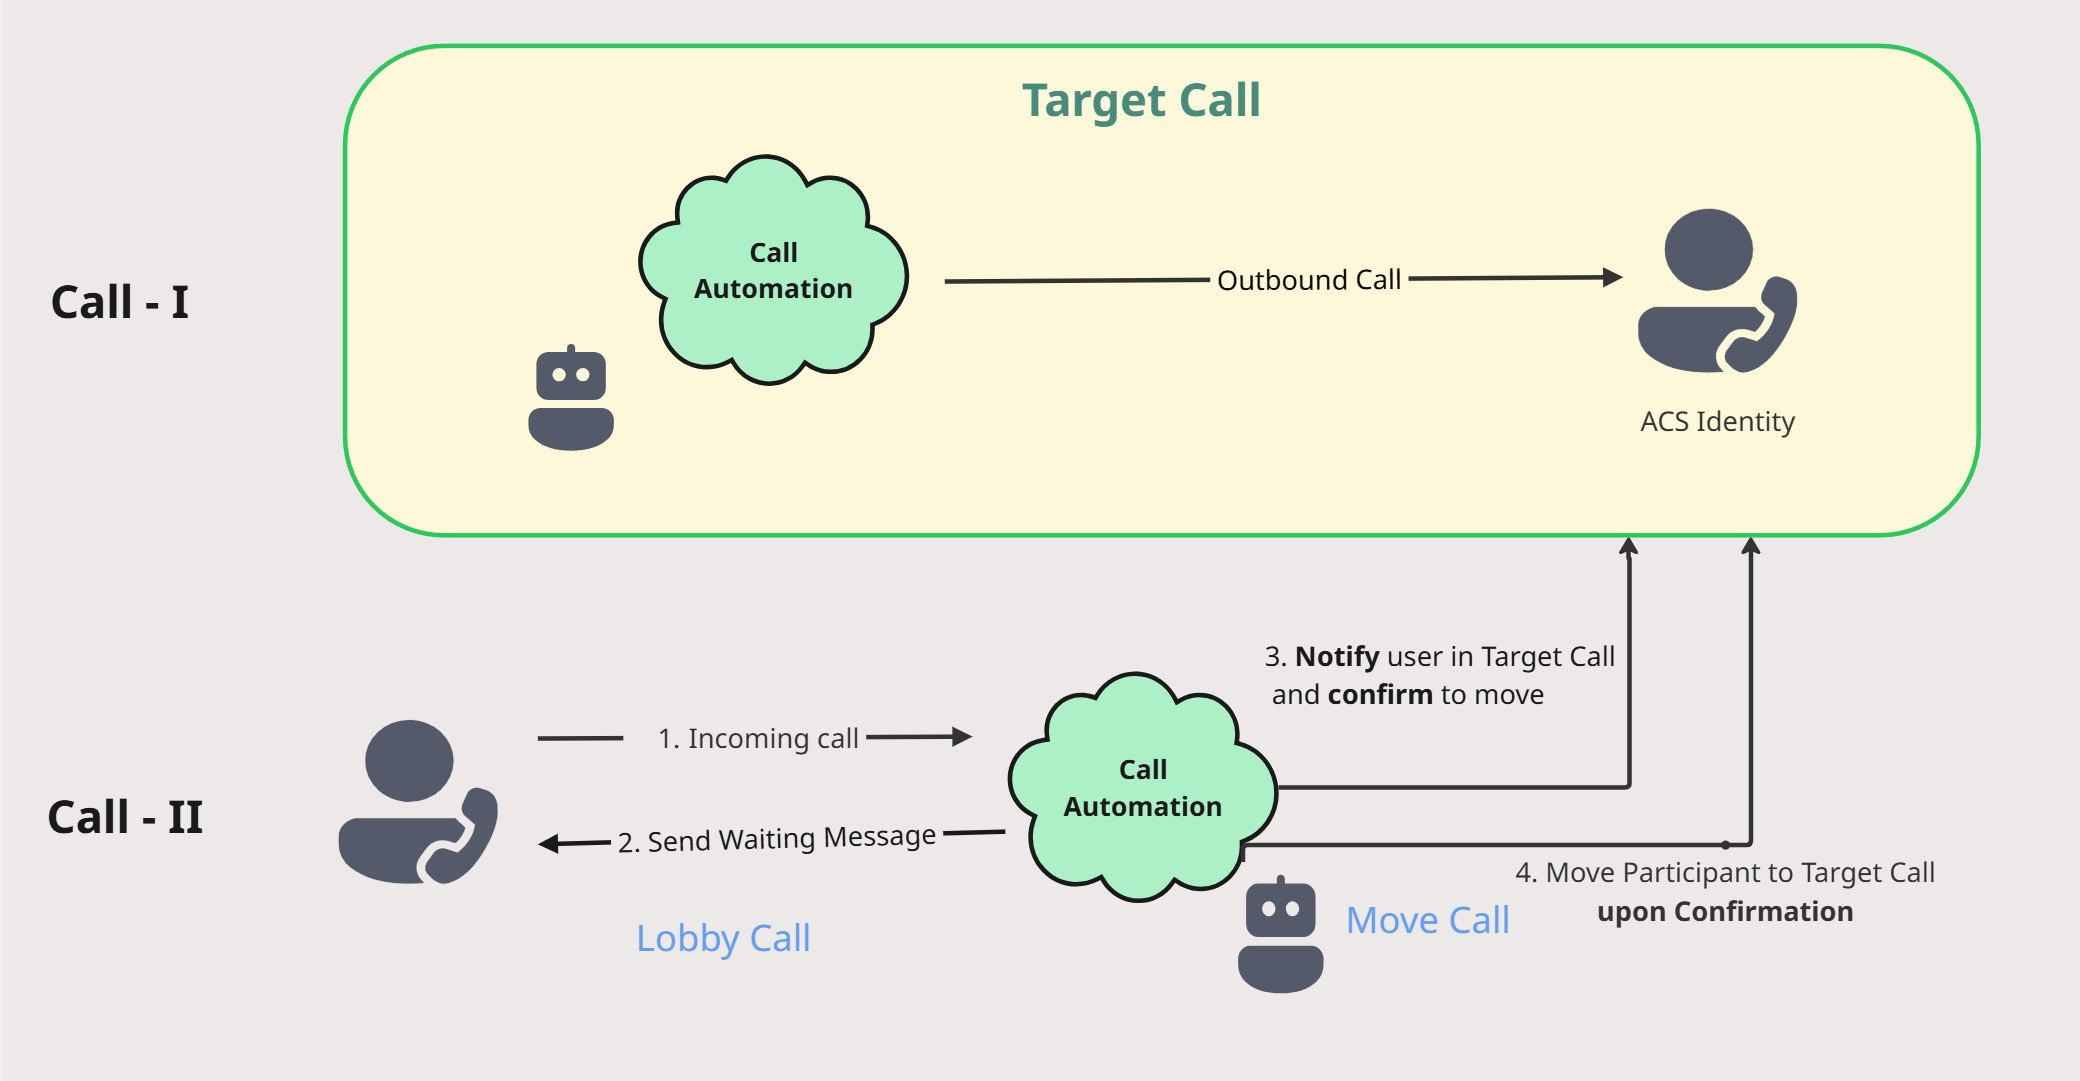
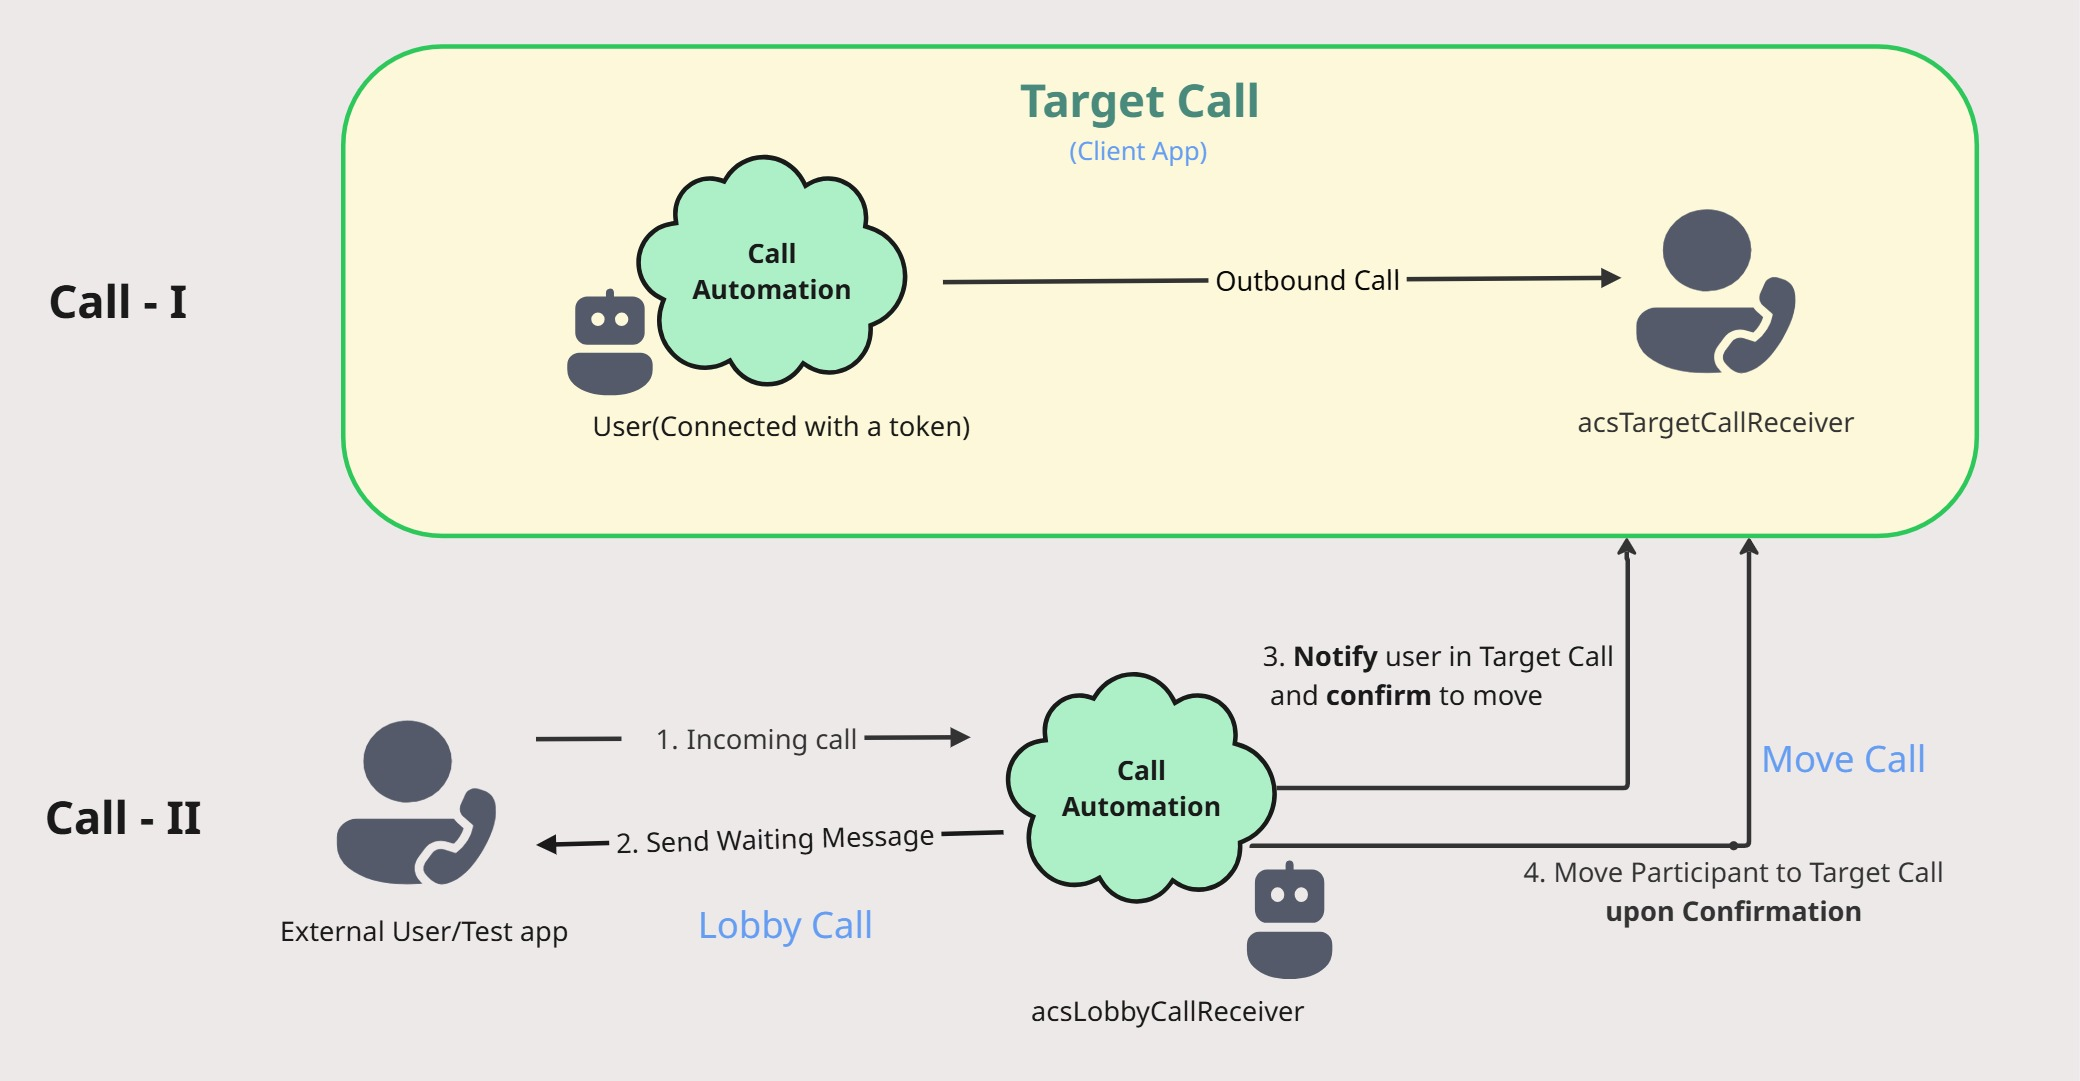
Lobby Call Support Sample - readme.md updates

diff --git a/LobbyCallSupportSample/LobbyCallSupportSample/readme.md b/LobbyCallSupportSample/LobbyCallSupportSample/readme.md
@@ -123,15 +123,17 @@ Before running the application, configure the following settings in the `appSett
   "cognitiveServiceEndpoint": "https://<COGNITIVE_SERVICE_ENDPOINT>",
   "callbackUriHost": "https://<your-dev-tunnel>.devtunnels.ms",
   "acsLobbyCallReceiver": "8:acs:<GUID>",
-  "acsTargetCallReceiver": "8:acs:<GUID>",
-  "acsTargetCallSender": "8:acs:<GUID>"
+  "acsTargetCallReceiver": "8:acs:<GUID>"
 }
 ```
 ---
 ## Running the App Locally
 
 
-1. **Generate ACS identities** for lobby and target participants in **Azure Portal**.
+1. **Generate ACS identities** for lobby and target participants in **Azure Portal**. 3 users are needed:
+   - `acsLobbyCallReceiver` – Lobby call receiver.
+   - `acsTargetCallReceiver` – Target call receiver.
+   - `Sender` – Target call sender.
 2. **Setup EventSubscription** for incoming calls:
 	- Set up a Web hook(`https://<your_dev_tunnel_url>/api/LobbyCallSupportEventHandler`) for callback.
    - Add Filter:
@@ -144,11 +146,11 @@ Before running the application, configure the following settings in the `appSett
 ## Workflow
 
 - Start target call in client app `LobbyCallSupport-Client`:
-  - Add token for `acsTargetCallSender`.
-  - Add user ID for `acsTargetCallReceiver`.
+  - Input token for `Sender` behalf of Target call sender.
+  - Input user ID for `acsTargetCallReceiver` for Target call receiver.
   - Click **Start Call**.
 - Incoming call from target sender → server answers → expect `Call Connected` event.
-- **Lobby user** calls `acsLobbyCallReceiver` → automated voice plays: `You are currently in a lobby call, we will notify the admin that you are waiting.`
+- From a test app or ACS client, **Lobby user** calls `acsLobbyCallReceiver` → CA answers call and automated voice plays: `You are currently in a lobby call, we will notify the admin that you are waiting.`
 - Target call receives notification (a confirm dialog): `A user is waiting in lobby, do you want to add them to your call?`
 - If confirmed, **Lobby user must accept the call when prompted to move in call test app** → expect **MoveParticipantSucceeded** event → lobby user joins target call.
 - **If user does not accept the move call prompt → lobby user remains in lobby call.**
